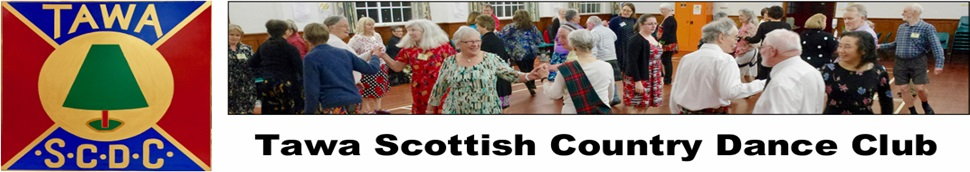
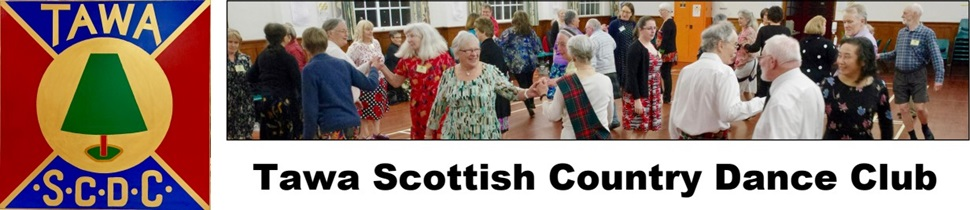
Change title image

diff --git a/events.html b/events.html
@@ -118,7 +118,7 @@
         }
         </script>
     </head>
[2 lines of base64/hex data omitted]
         <div class="container">
             <img class="image" src="jpg/title.jpg" alt="Image">
             <div class="buttons">
@@ -132,14 +132,6 @@
                 <h3 style="color: #3366ff;" align=center><big>TAWA SCD CALENDAR 2024</big>&nbsp;&nbsp;&nbsp;<a href="https://wellingtonscd.org.nz/events" target="_blank">Wellington Region</a></h3>
 <div align="center"><table id="calendar">
 <tbody>
-<tr id="4A">
-<th>Tue, 13 Aug</th>
-<th>12:45 PM</th>
-<th>Experienced Group</th>
-<th style="color: lightgray;">flyer</th>
-<th style="color: lightgray;">crib</th>
-<th><a href="jpg/St Johns Anglican Church.jpg">location</a></th>
-</tr>
 <tr id="4B">
 <th>Wed, 14 Aug</th>
 <th style="color: lightgray;">time</th>
@@ -638,6 +630,14 @@
 </tr>
 <tr id="5N">
 <th>Tue, 15 Oct</th>
+<th style="color: lightgray;">time</th>
+<th style="color: lightgray;">event</th>
+<th style="color: lightgray;">flyer</th>
+<th style="color: lightgray;">crib</th>
+<th style="color: lightgray;">location</th>
+</tr>
+<tr id="5O">
+<th>Wed, 16 Oct</th>
 <th style="color: lightgray;">time</th>
 <th style="color: lightgray;">event</th>
 <th style="color: lightgray;">flyer</th>
